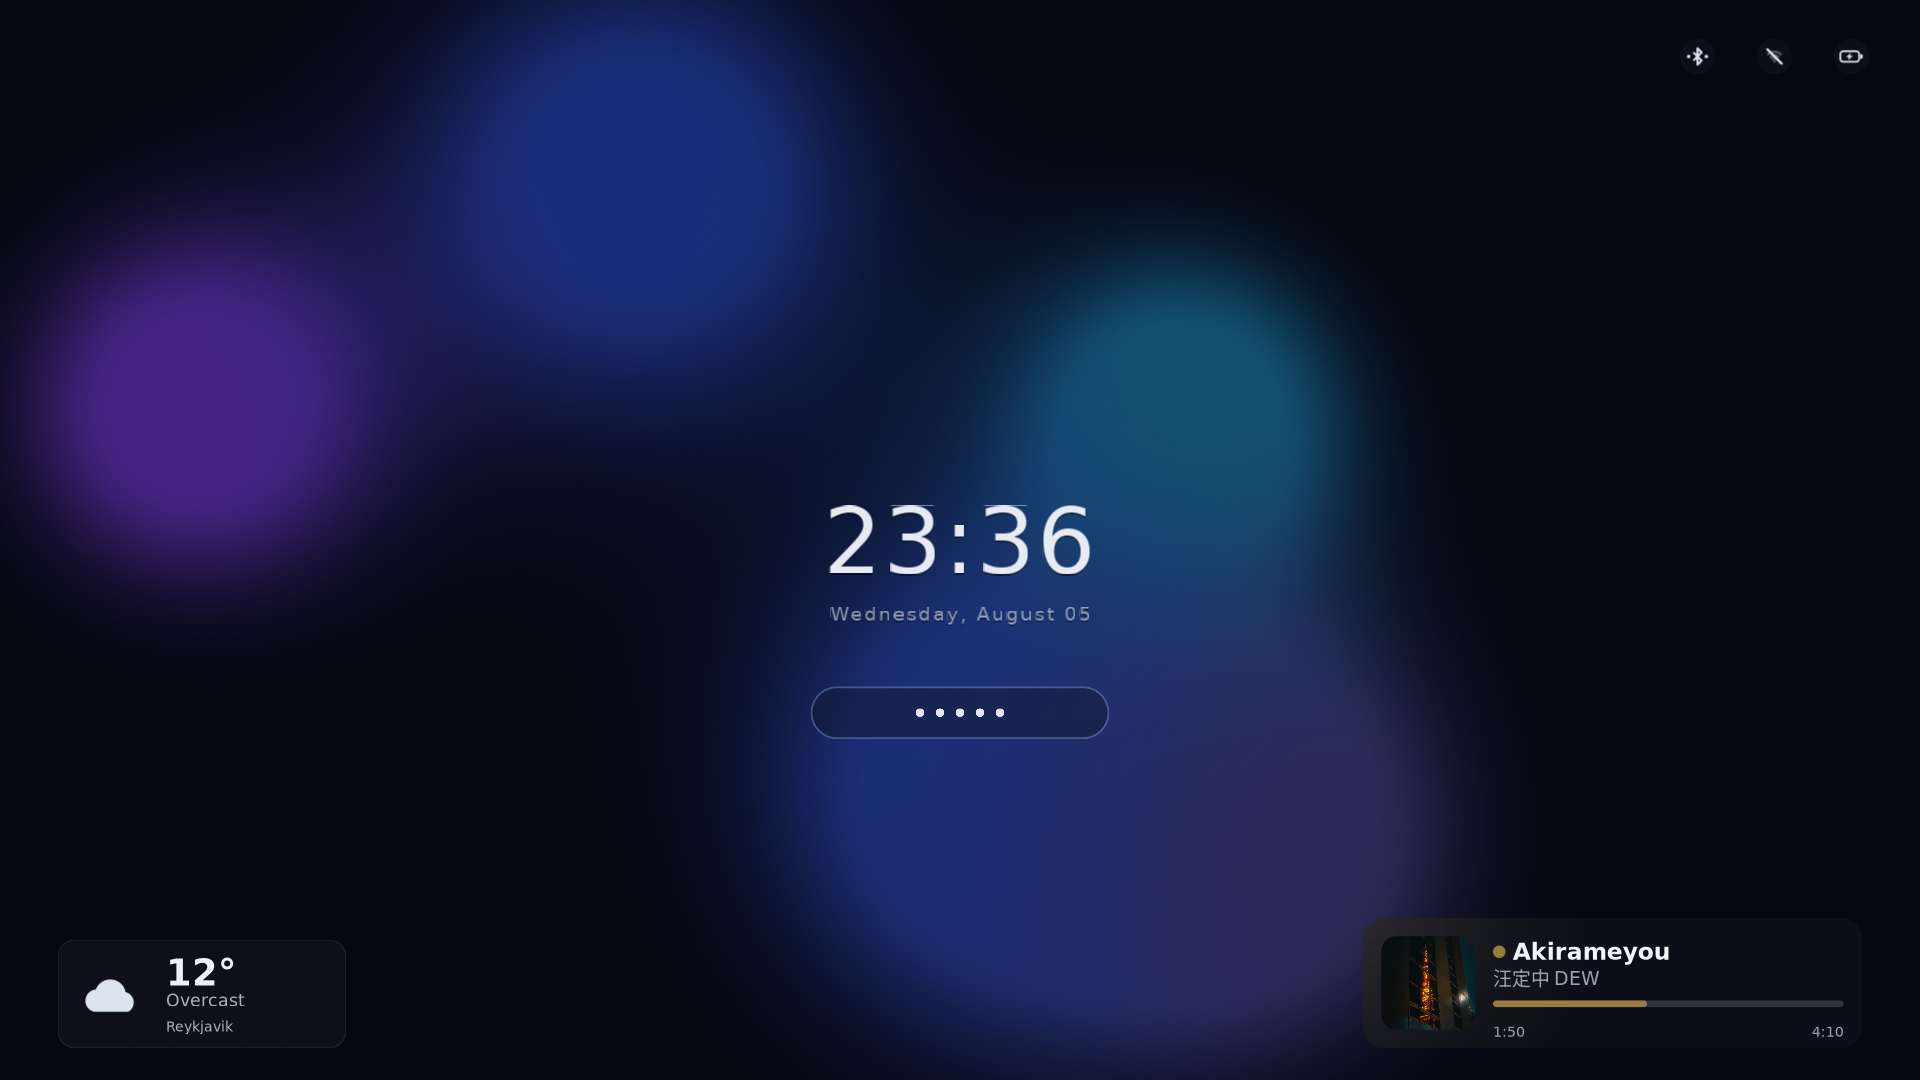
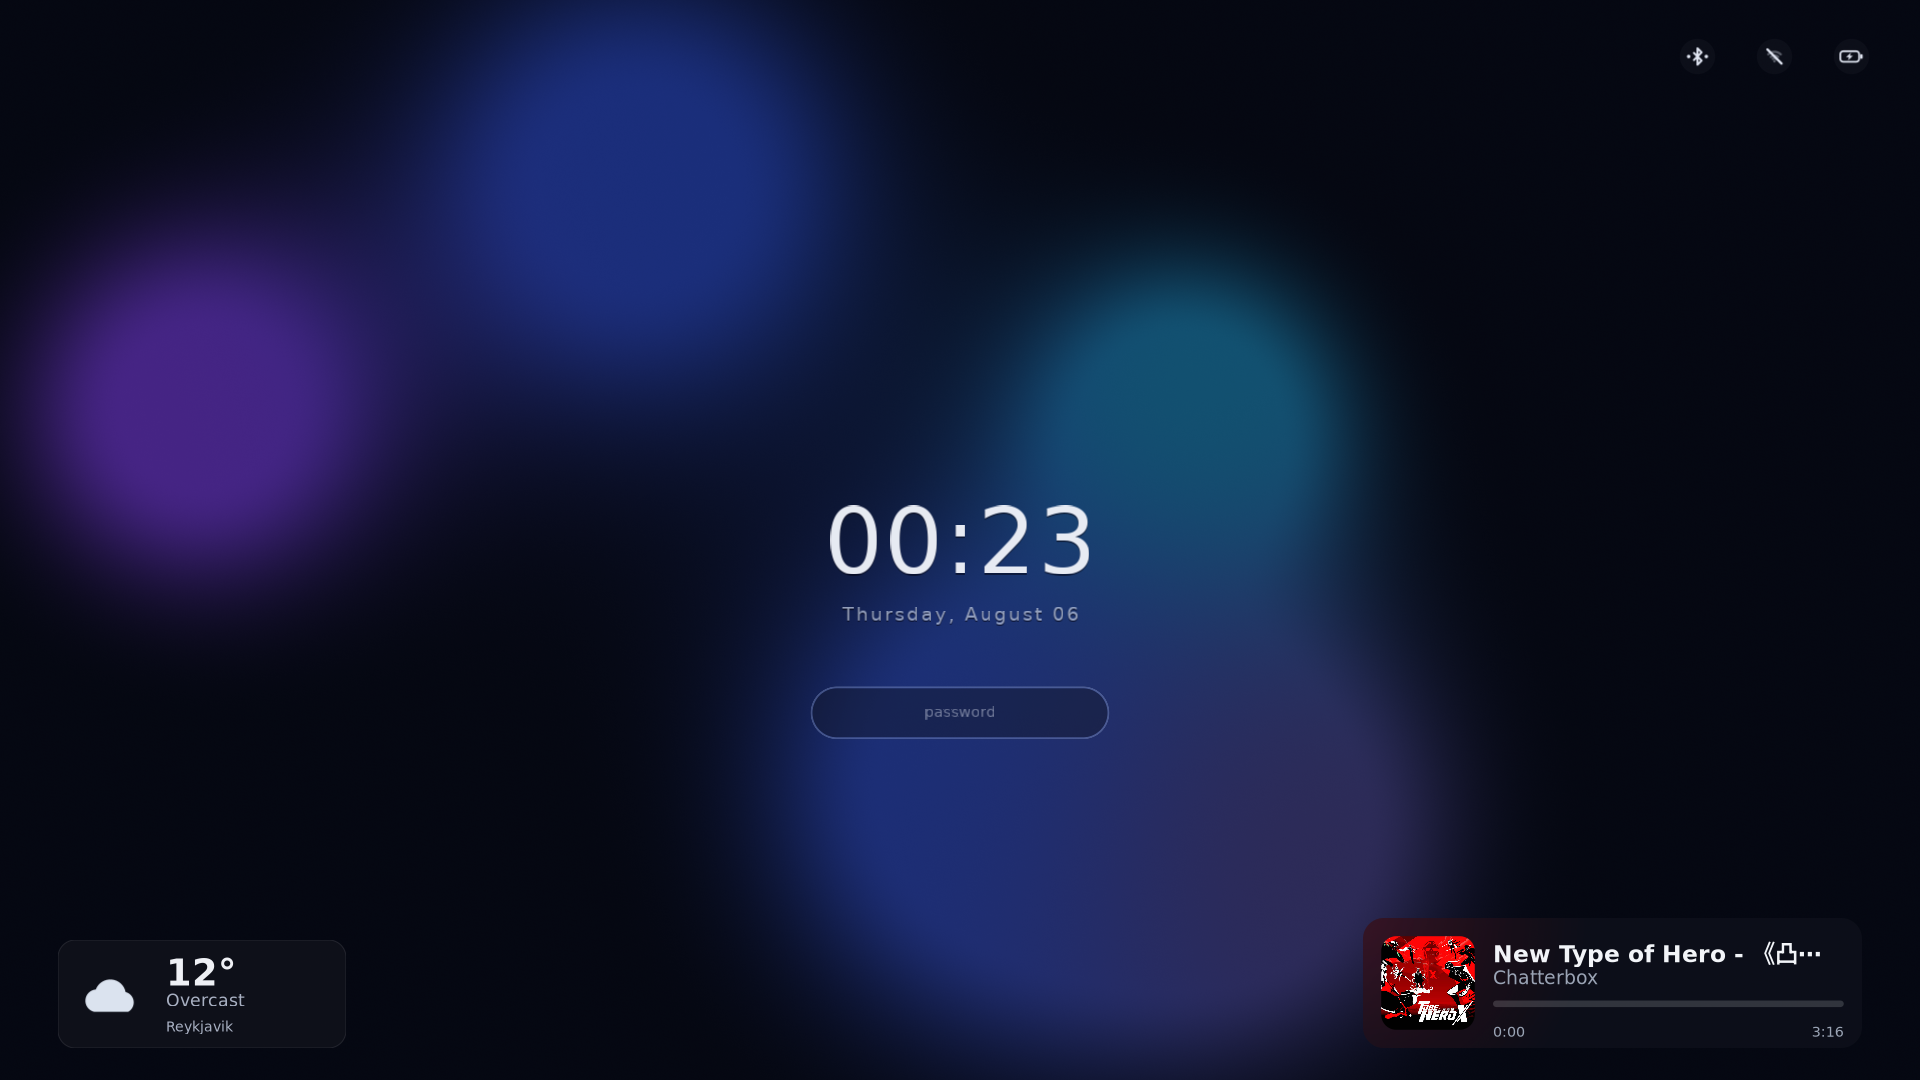
fix(veiland-text): 1px atlas gutter to stop glyph bleed
Glyphs were shelf-packed edge-to-edge, so a glyph's UV boundary sampled
straight into its neighbour and filtering bled a faint row in — a thin
horizontal bar across glyph tops (visible on the clock). Advance the packing
cursor by w+1 / h+1 so every glyph keeps an empty 1px margin; the packed rect
is unchanged. Re-rendered aurora-corners.png shows the clean clock.

Changed region(s): [[0.7188, 0.8556, 0.9375, 0.9778], [0.4062, 0.4583, 0.5625, 0.5806], [0.4688, 0.6417, 0.5312, 0.6722]]

diff --git a/veiland-text/src/atlas.rs b/veiland-text/src/atlas.rs
@@ -253,8 +253,15 @@ impl Atlas {
     /// `None` if the glyph won't fit on any existing shelf and there's
     /// no room for a new one. Pure CPU work — no GL state touched.
     fn try_pack(&mut self, w: u32, h: u32) -> Option<PackedRect> {
-        // Try to fit on an existing shelf: must be at least as tall as
-        // the glyph, and have at least `w` pixels free at the right edge.
+        // 1px gutter between packed glyphs. The rect stays w x h, but the
+        // packing cursor advances by w+PAD / h+PAD so a glyph's right/bottom
+        // edge never touches its neighbour's pixels. Without it, a glyph's UV
+        // boundary samples straight into the adjacent glyph and bilinear
+        // filtering (or half-texel rounding at some scales) bleeds a faint row
+        // of the neighbour in — a thin bar across the glyph edge. The gutter
+        // leaves an empty margin so the boundary samples only background.
+        const PAD: u32 = 1;
+        // Try to fit on an existing shelf: tall enough, and w (+ gutter) free.
         for shelf in &mut self.shelves {
             if shelf.height >= h && shelf.next_free_x + w <= self.size {
                 let rect = PackedRect {
@@ -263,7 +270,7 @@ impl Atlas {
                     w,
                     h,
                 };
-                shelf.next_free_x += w;
+                shelf.next_free_x += w + PAD;
                 return Some(rect);
             }
         }
@@ -275,7 +282,7 @@ impl Atlas {
             let shelf = Shelf {
                 y_top: self.next_shelf_y,
                 height: h,
-                next_free_x: w,
+                next_free_x: w + PAD,
             };
             let rect = PackedRect {
                 x: 0,
@@ -284,7 +291,7 @@ impl Atlas {
                 h,
             };
             self.shelves.push(shelf);
-            self.next_shelf_y += h;
+            self.next_shelf_y += h + PAD;
             return Some(rect);
         }
         None
@@ -350,6 +357,11 @@ mod tests {
         }
     }
 
+    // NOTE: these packing tests assert the cursor positions AFTER each pack,
+    // which include the 1px inter-glyph gutter (PAD=1 in try_pack): the packed
+    // rect stays w x h, but next_free_x / next_shelf_y advance by w+1 / h+1 so
+    // no glyph's edge touches its neighbour (prevents atlas bleed). The rect
+    // origins (r.x / r.y) are unaffected; only the advance carries the gutter.
     #[test]
     fn pack_first_glyph_opens_a_shelf() {
         let mut a = fake_atlas();
@@ -358,8 +370,8 @@ mod tests {
         assert_eq!(a.shelves.len(), 1);
         assert_eq!(a.shelves[0].y_top, 0);
         assert_eq!(a.shelves[0].height, 50);
-        assert_eq!(a.shelves[0].next_free_x, 40);
-        assert_eq!(a.next_shelf_y, 50);
+        assert_eq!(a.shelves[0].next_free_x, 41); // 40 + 1px gutter
+        assert_eq!(a.next_shelf_y, 51); // 50 + 1px gutter
     }
 
     #[test]
@@ -367,10 +379,10 @@ mod tests {
         let mut a = fake_atlas();
         a.try_pack(40, 50).unwrap();
         let r = a.try_pack(30, 40).expect("shorter glyph must fit on shelf");
-        assert_eq!(r.x, 40);
+        assert_eq!(r.x, 41); // starts after the first glyph + its gutter
         assert_eq!(r.y, 0);
         assert_eq!(a.shelves.len(), 1);
-        assert_eq!(a.shelves[0].next_free_x, 70);
+        assert_eq!(a.shelves[0].next_free_x, 72); // 41 + 30 + 1px gutter
     }
 
     #[test]
@@ -380,9 +392,9 @@ mod tests {
         let r = a
             .try_pack(20, 80)
             .expect("taller glyph must open new shelf");
-        assert_eq!(r.y, 50);
+        assert_eq!(r.y, 51); // first shelf height 50 + 1px gutter
         assert_eq!(a.shelves.len(), 2);
-        assert_eq!(a.next_shelf_y, 130);
+        assert_eq!(a.next_shelf_y, 131); // 51 + 80 + 1px gutter
     }
 
     #[test]
@@ -391,11 +403,12 @@ mod tests {
         // Open one shelf that occupies the full height. Subsequent
         // glyphs either fit on it (if narrow enough) or fail.
         a.try_pack(1, ATLAS_SIZE).unwrap(); // one tall sliver, height = ATLAS_SIZE
-        // shelf is ATLAS_SIZE tall, next_free_x = 1, so width-1023 still fits.
-        a.try_pack(ATLAS_SIZE - 1, 10).unwrap();
-        // Now shelf is full at x; and no room for another shelf below
-        // (next_shelf_y = ATLAS_SIZE). A new glyph that won't fit
-        // on the existing shelf must fail.
+        // After it: next_free_x = 1 + 1px gutter = 2, and next_shelf_y =
+        // ATLAS_SIZE + 1 (so no new shelf can open). Fill the shelf's width to
+        // the edge: 2 + (ATLAS_SIZE - 2) = ATLAS_SIZE, which just fits.
+        a.try_pack(ATLAS_SIZE - 2, 10).unwrap();
+        // Now the shelf has no free x and there's no room for another shelf
+        // below. Any further glyph must fail.
         assert!(a.try_pack(2, 1).is_none());
     }
 
